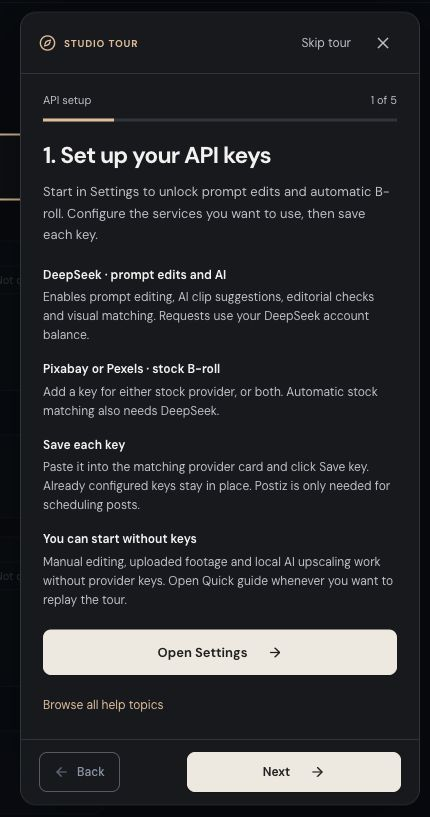
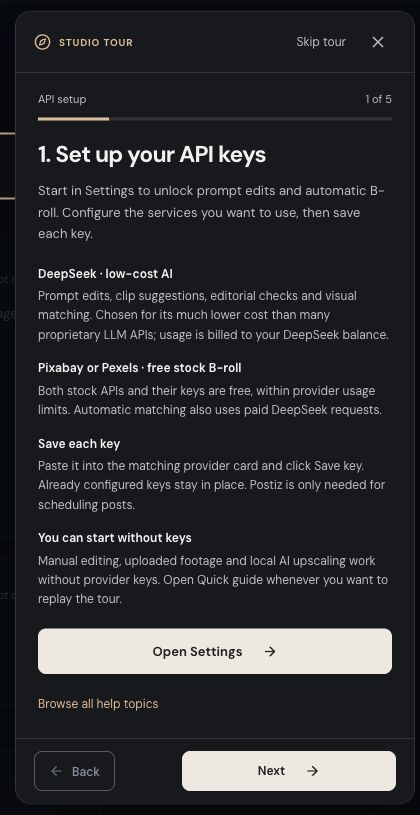
Clarify free stock APIs and low-cost DeepSeek setup

diff --git a/src/onboarding-steps.ts b/src/onboarding-steps.ts
@@ -42,8 +42,8 @@ const apiKeySetup = {
   destination: { view: "settings" },
   action: { label: "Open Settings", destination: { view: "settings" } },
   options: [
-    ["DeepSeek · prompt edits and AI", "Enables prompt editing, AI clip suggestions, editorial checks and visual matching. Requests use your DeepSeek account balance."],
-    ["Pixabay or Pexels · stock B-roll", "Add a key for either stock provider, or both. Automatic stock matching also needs DeepSeek."],
+    ["DeepSeek · low-cost AI", "Prompt edits, clip suggestions, editorial checks and visual matching. Chosen for its much lower cost than many proprietary LLM APIs; usage is billed to your DeepSeek balance."],
+    ["Pixabay or Pexels · free stock B-roll", "Both stock APIs and their keys are free, within provider usage limits. Automatic matching also uses paid DeepSeek requests."],
     ["Save each key", "Paste it into the matching provider card and click Save key. Already configured keys stay in place. Postiz is only needed for scheduling posts."],
     ["You can start without keys", "Manual editing, uploaded footage and local AI upscaling work without provider keys. Open Quick guide whenever you want to replay the tour."],
   ],
@@ -152,7 +152,7 @@ export const TOUR_STEPS: readonly TourStep[] = [
   },
   { id: "supporting-visuals", chapter: "Auto", title: "Choose optional supporting visuals", target: ".supporting-visuals", destination: autoAll,
     description: "Choose any combination, or leave every source off to keep only your original footage.",
-    options: [["Pixabay / Pexels", "Add a Pixabay or Pexels API key plus DeepSeek in Settings for matched stock B-roll. HyperFrames / Remotion add illustrated explainer cards. My B-roll uses clips from your own library."],
+    options: [["Pixabay / Pexels · free stock", "Add a free Pixabay or Pexels API key plus DeepSeek in Settings for matched stock B-roll. Stock access is free; DeepSeek matching is billed separately. HyperFrames / Remotion add illustrated explainer cards. My B-roll uses clips from your own library."],
       ["Count, coverage and stock style", "Set the total shot count and maximum percentage of the result they may cover. The animation-only stock filter uses Pixabay."],
       ["Matching and library", "Upload, tag and select library clips; choose tags or AI matching. Stock matching and illustrated explainers need configured DeepSeek access. Unsuitable shots can be skipped; read the export's unfilled requests."]],
   },

diff --git a/src/SupportingVisualsEditor.tsx b/src/SupportingVisualsEditor.tsx
@@ -26,8 +26,8 @@ export default function SupportingVisualsEditor({ options, onChange, capabilitie
   const librarySelected = hasLibraryVisuals(options);
   const graphicsSelected = hasGraphicVisuals(options);
   const visualChoices: { id: VisualSource; description: string; icon: typeof Film; available: boolean; setup: string }[] = [
-    { id: "pixabay", description: "Moving stock footage", icon: Film, available: capabilities?.stockProviders?.includes("pixabay") ?? !!capabilities?.stockBroll, setup: "Add a Pixabay API key in Settings to enable stock search." },
-    { id: "pexels", description: "Moving stock footage", icon: Film, available: !!capabilities?.stockProviders?.includes("pexels"), setup: "Add a Pexels API key in Settings to enable stock search." },
+    { id: "pixabay", description: "Free moving stock footage", icon: Film, available: capabilities?.stockProviders?.includes("pixabay") ?? !!capabilities?.stockBroll, setup: "Add a free Pixabay API key in Settings to enable stock search." },
+    { id: "pexels", description: "Free moving stock footage", icon: Film, available: !!capabilities?.stockProviders?.includes("pexels"), setup: "Add a free Pexels API key in Settings to enable stock search." },
     { id: "hyperframes", description: "Illustrated explainers", icon: Layers3, available: !!capabilities?.motionGraphics, setup: "HyperFrames renderer is unavailable on this engine." },
     { id: "remotion", description: "Illustrated explainers", icon: Shapes, available: !!capabilities?.remotionGraphics, setup: "Remotion renderer is unavailable on this engine." },
     { id: "library", description: "Your uploaded clips", icon: FolderOpen, available: true, setup: "" },

diff --git a/src/ApiSettings.tsx b/src/ApiSettings.tsx
@@ -4,9 +4,9 @@ import { API_PROVIDERS, type ApiKeySettings, type ApiProvider } from "../shared/
 import { apiRequest } from "./api-client";
 
 const providers: Record<ApiProvider, { name: string; description: string }> = {
-  deepseek: { name: "DeepSeek", description: "AI editing, hooks, visual matching, and editorial reviews." },
-  pixabay: { name: "Pixabay", description: "Stock videos and animations for supporting footage." },
-  pexels: { name: "Pexels", description: "Stock videos for supporting footage." },
+  deepseek: { name: "DeepSeek", description: "Prompt edits, hooks, visual matching and reviews. We chose DeepSeek for its much lower cost than many proprietary LLM APIs. This is a paid API; usage is billed to your account." },
+  pixabay: { name: "Pixabay", description: "Free stock videos and animations with a free API key. Provider usage limits apply." },
+  pexels: { name: "Pexels", description: "Free stock videos with a free API key. Provider usage limits apply." },
   postiz: { name: "Postiz", description: "Schedule and publish exports to your connected channels." },
 };
 const blankKeys = (): Record<ApiProvider, string> => ({ deepseek: "", pixabay: "", pexels: "", postiz: "" });

diff --git a/README.md b/README.md
@@ -110,7 +110,7 @@ Upload intros, outros, demonstrations, or B-roll and place them in the edit:
 
 Choose crop or contain framing for each placement. Auto supports copying these placements across selected videos; Short clips can apply footage to its drafts.
 
-Optional supporting visuals can combine **your B-roll library**, **Pixabay**, **Pexels**, and locally rendered **HyperFrames / Remotion** animations. Request a shot count and coverage limit. Stock selection checks relevance and motion, retains creator credits, and reports when suitable shots are unavailable. Animated explainers can illustrate processes, comparisons, or numbers grounded in the spoken content.
+Optional supporting visuals can combine **your B-roll library**, free stock footage from **Pixabay** and **Pexels**, and locally rendered **HyperFrames / Remotion** animations. Both stock APIs are free within their usage limits; AI matching uses paid DeepSeek requests. Request a shot count and coverage limit. Stock selection checks relevance and motion, retains creator credits, and reports when suitable shots are unavailable. Animated explainers can illustrate processes, comparisons, or numbers grounded in the spoken content.
 
 Supporting visuals are **off by default**. Stock matching and semantic animation planning use DeepSeek; the animation rendering itself runs locally. [Footage placement →](docs/user-guide.md#place-your-own-footage) · [Supporting visuals →](docs/user-guide.md#optional-b-roll-and-animated-cards)
 
@@ -266,7 +266,7 @@ Open **http://127.0.0.1:5173**. The API runs on port **8787**. Keep the developm
 
 The first speech setup downloads its model; subsequent transcription uses the cached model locally. You can skip speech setup for basic Manual edits and URL downloads. No API key is needed to start the app.
 
-The first-run tour starts with **API keys in Settings**: DeepSeek unlocks prompt editing and AI matching; add Pixabay or Pexels for stock B-roll. **Open Settings** closes the tour so you can save each key. Keys are optional for local editing and upscaling. The remaining steps cover imports, output settings, review, and MCP. Reopen the tour through **Quick guide**, or use the contextual help for a detailed walkthrough.
+The first-run tour starts with **API keys in Settings**: DeepSeek provides low-cost, paid prompt editing and AI matching; Pixabay and Pexels provide free stock B-roll APIs. **Open Settings** closes the tour so you can save each key. Keys are optional for local editing and upscaling. The remaining steps cover imports, output settings, review, and MCP. Reopen the tour through **Quick guide**, or use the contextual help for a detailed walkthrough.
 
 ![First onboarding step explaining DeepSeek, stock B-roll keys, and the Open Settings action](docs/screenshots/onboarding-api-keys.jpg)
 
@@ -296,6 +296,10 @@ Model installers need internet access initially. Local model processing has no p
 ## AI, integrations, and costs
 
 Manage provider keys in **Settings** or use a private root `.env` based on [.env.example](.env.example). Saved Settings keys override environment keys and can be removed to restore the environment configuration. Changing a saved key does not require restarting the app; environment changes do.
+
+**Pixabay and Pexels are free:** their stock APIs and API keys have no usage charge within provider limits, and footage remains subject to each provider's license. Automatic stock matching still uses separately billed DeepSeek requests. [Pixabay API](https://pixabay.com/service/about/api/) · [Pexels API pricing](https://help.pexels.com/hc/en-us/articles/47677890260761-Is-the-Pexels-API-free-to-use). As of October 10, 2026, Pexels reports that [new API key issuance is paused](https://help.pexels.com/hc/en-us/articles/900004904026-How-do-I-get-an-API-key); start with Pixabay if you do not already have a Pexels key.
+
+**Why DeepSeek?** We chose it to keep AI editing affordable: its API prices are substantially lower than many proprietary LLM APIs, including Claude Sonnet and Opus. DeepSeek is **paid, billed by token usage** against your own account balance. Costs depend on the model, input/output volume and caching; compare the current [DeepSeek rates](https://api-docs.deepseek.com/quick_start/pricing/) and [Claude rates](https://platform.claude.com/docs/en/about-claude/pricing) rather than assuming a fixed saving on every request.
 
 | Service | Used for | What leaves the app |
 | --- | --- | --- |

diff --git a/docs/user-guide.md b/docs/user-guide.md
@@ -69,13 +69,15 @@ setup, example prompts and troubleshooting.
 
 Open **Settings** in the top navigation to add or replace your **DeepSeek**, **Pixabay**, **Pexels**, and **Postiz** API keys. Each field has its own **Save key** button. Configured keys stay hidden; leaving a field blank keeps its current key. Saving does not contact a provider or verify the key. New provider requests use the saved key without restarting the app.
 
+**Pixabay and Pexels provide free stock footage APIs and free API keys**, subject to provider limits and content licenses. **DeepSeek is a low-cost paid API**: we chose it for its substantially lower prices than many proprietary LLM APIs. Prompt edits and automatic stock matching use your DeepSeek balance even when the footage itself is free. See [provider costs and current official pricing](../README.md#ai-integrations-and-costs). As of October 10, 2026, [Pexels has paused new API key issuance](https://help.pexels.com/hc/en-us/articles/900004904026-How-do-I-get-an-API-key); use Pixabay if you do not already have a Pexels key.
+
 Keys saved here take precedence over the corresponding environment variable. Your `.env` file and existing database are left intact. **Use environment key** removes an override and restores your original environment key; **Remove saved key** removes a key when there is no environment fallback. Model names and custom Postiz URLs remain in the server environment.
 
 Saved keys are encrypted in `DATA_DIR/private/api-keys.enc`, with a local encryption key in `DATA_DIR/private/api-keys.key`. Keep both files together in private backups; losing the encryption key makes the saved keys unreadable. These settings belong to the current private installation. Run it privately; shared hosting still requires authentication and customer isolation.
 
 ## Interactive tour
 
-A five-step introduction opens once per browser, starting with **API setup in Settings**. It explains that DeepSeek enables prompt edits, AI clip suggestions and visual matching; automatic stock B-roll also needs a Pixabay or Pexels key. **Open Settings** closes the overlay and stays on the editable Settings page so you can paste and save each key. Already configured keys stay in place, Postiz is only for scheduling, and local editing and AI upscaling remain available without provider keys.
+A five-step introduction opens once per browser, starting with **API setup in Settings**. It explains why DeepSeek was chosen for low-cost paid AI, and that Pixabay and Pexels stock APIs and keys are free. DeepSeek enables prompt edits, AI clip suggestions and visual matching; automatic stock B-roll also needs a Pixabay or Pexels key. **Open Settings** closes the overlay and stays on the editable Settings page so you can paste and save each key. Already configured keys stay in place, Postiz is only for scheduling, and local editing and AI upscaling remain available without provider keys.
 
 The next steps cover importing footage, choosing output settings, reviewing clips, and optionally editing from Claude or Codex through the local MCP connection. The last step's **Set up Claude or Codex** button opens connection instructions and bulk-edit examples; the same topic is available under **Edit from chat** in detailed help. Dismiss the tour at any point; completion is remembered across tabs and restarts. **Quick guide** and **How it works** replay it, while **Help with Auto / Manual / Short clips / exports / history** opens detailed help for the current workflow. **Browse all help topics** retains the complete reference tour, including API setup. Closing or skipping help restores the original view without changing edit settings or starting renders; the explicit **Open Settings** action keeps Settings open.
 

diff --git a/docs/screenshots/README.md b/docs/screenshots/README.md
@@ -9,7 +9,7 @@ Actual Remix Studio UI captured in Chrome on October 10, 2026. The workspace and
 | [bulk-settings.jpg](bulk-settings.jpg) | Selected-video scope, with future-import defaults unchecked. |
 | [ai-upscaler.jpg](ai-upscaler.jpg) | 4K selected, local processing, and the actual readiness result on an Apple Silicon Mac. Other hosts display their own device. |
 | [prompt-upscale.jpg](prompt-upscale.jpg) | Built-in 4K prompt example targeting two videos. The proposal has not been submitted or applied in this capture. |
-| [onboarding-api-keys.jpg](onboarding-api-keys.jpg) | First-run API setup, with provider dependencies and a direct Open Settings action. No keys are entered. |
+| [onboarding-api-keys.jpg](onboarding-api-keys.jpg) | First-run API setup explaining free Pixabay/Pexels access, the choice of low-cost paid DeepSeek, provider dependencies, and the Open Settings action. No keys are entered. |
 
 ## Refreshing the images
 
